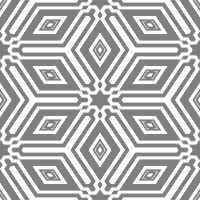
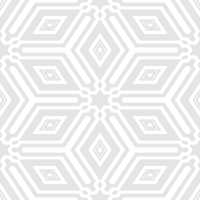
Moves contextMenu code so that it runs correctly
Contextmenu code was being run before canvas was initialised - this has been resolved.

Adds styling to context menu.

diff --git a/resources/jquery.contextmenu/jquery.contextMenu.css b/resources/jquery.contextmenu/jquery.contextMenu.css
@@ -1,50 +1,51 @@
 /* Generic context menu styles */
-.contextMenu {
+.contextMenu{
 	position: absolute;
-	width: 120px;
-	z-index: 99999;
-	border: solid 1px #CCC;
-	background: #EEE;
-	padding: 0px;
-	margin: 0px;
-	display: none;
+	z-index:99999;
+	display:none;
+	margin:0;
+	padding:0;
+	width:120px;
+	border:solid 1px #ccc;
 }
 
-.contextMenu LI {
-	list-style: none;
-	padding: 0px;
-	margin: 0px;
+.contextMenu li{
+	list-style:none;
+	padding:0;
+	margin:0;
 }
 
-.contextMenu A {
-	color: #333;
-	text-decoration: none;
-	display: block;
-	line-height: 20px;
-	height: 20px;
-	background-position: 6px center;
-	background-repeat: no-repeat;
-	outline: none;
-	padding: 1px 5px;
-	padding-left: 28px;
+.contextMenu a{
+	color:#333;
+	display:block;
+	padding:1px 5px 1px 28px;
+	height:20px;
+	text-decoration:none;
+	line-height:20px;
+	background-position:6px center;
+	background-repeat:no-repeat;
+	background-color:#eee;
+	background-color:rgba(238, 238, 238, 0.9);
+	outline:none;
 }
 
-.contextMenu LI.hover A {
-	color: #FFF;
-	background-color: #3399FF;
+.contextMenu li.hover a{
+	color:#fff;
+	background-color:#3399ff;
+	background-color:rgba(51, 153, 255, 0.9);
 }
 
-.contextMenu LI.disabled A {
-	color: #AAA;
-	cursor: default;
+.contextMenu li.disabled a{
+	color:#aaa;
+	cursor:default;
 }
 
-.contextMenu LI.hover.disabled A {
-	background-color: transparent;
+.contextMenu li.hover.disabled a{
+	background-color:transparent;
 }
 
-.contextMenu LI.separator {
-	border-top: solid 1px #CCC;
+.contextMenu li.separator{
+	border-top:solid 1px #ccc;
 }
 
 /*
@@ -53,10 +54,10 @@
 	You can add icons to the context menu by adding
 	classes to the respective LI element(s)
 */
-
-.contextMenu LI.edit A { background-image: url(images/page_white_edit.png); }
-.contextMenu LI.cut A { background-image: url(images/cut.png); }
-.contextMenu LI.copy A { background-image: url(images/page_white_copy.png); }
-.contextMenu LI.paste A { background-image: url(images/page_white_paste.png); }
-.contextMenu LI.delete A { background-image: url(images/page_white_delete.png); }
-.contextMenu LI.quit A { background-image: url(images/door.png); }
+.contextMenu li.edit a{ background-image:url(images/page_white_edit.png); }
+.contextMenu li.cut a{ background-image:url(images/cut.png); }
+.contextMenu li.copy a{ background-image:url(images/page_white_copy.png); }
+.contextMenu li.paste a{ background-image:url(images/page_white_paste.png); }
+.contextMenu li.delete a{ background-image:url(images/page_white_delete.png); }
+.contextMenu li.quit a{ background-image:url(images/door.png); }
+.contextMenu li.save a{ background-image:url(images/save.png); }

diff --git a/js/frame.js b/js/frame.js
@@ -94,6 +94,30 @@ Frame = function(options){
 		ctx.translate(centerPoint.x, centerPoint.y);
 
 
+		// if jquery.contextMenu and canvas2png is included, add our context menu
+		if(jQuery && $.fn.contextMenu && (typeof canvas2png != 'undefined')){
+			// add the context menu
+			$('body').append('<ul id="canvasMenu" class="contextMenu">' +
+								'<li class="save"><a href="#save">Save Image</a></li>' +
+							'</ul>');
+			// set up the functionality
+			$(canvas)
+					// ensure that canvas doesn't already have contextMenu
+					.destroyContextMenu()
+					// add contextMenu
+					.contextMenu(
+						{
+							menu:'canvasMenu'
+						},
+						function(action, el, pos){
+							if(action == 'save'){
+								Frame.save();
+							}
+						}
+					);
+		}
+
+
 		// store a collection of all images
 		var imageName = '';	// temporary storage for image name
 
@@ -659,25 +683,6 @@ Frame = function(options){
 
 	// run some JQuery only functionality
 	if(jQuery){
-		// if jquery.contextMenu and canvas2png is included, add our context menu
-		if($.fn.contextMenu && (typeof canvas2png != 'undefined')){
-			// add the context menu
-			$('body').append('<ul id="canvasMenu" class="contextMenu">' +
-								'<li class="save"><a href="#save">Save</a></li>' +
-							'</ul>');
-			// set up the funcionality
-			$(canvas).contextMenu(
-				{
-					menu:'canvasMenu'
-				},
-				function(action, el, pos){
-					if(action == 'save'){
-						Frame.save();
-					}
-				}
-			);
-		}
-
 		// if we're not using the flash replacement, run the re-size functionality
 		// flashcanvas can't handle this as it makes the browser un-responsive and doesn't resize anyway.
 		if(typeof FlashCanvas == 'undefined'){

diff --git a/index.html b/index.html
@@ -66,7 +66,7 @@
 				},
 				mount:{
 					file:'04.png',
-					color:'#f00',
+					color:'#efece1',
 					sections:[
 						[
 							{
